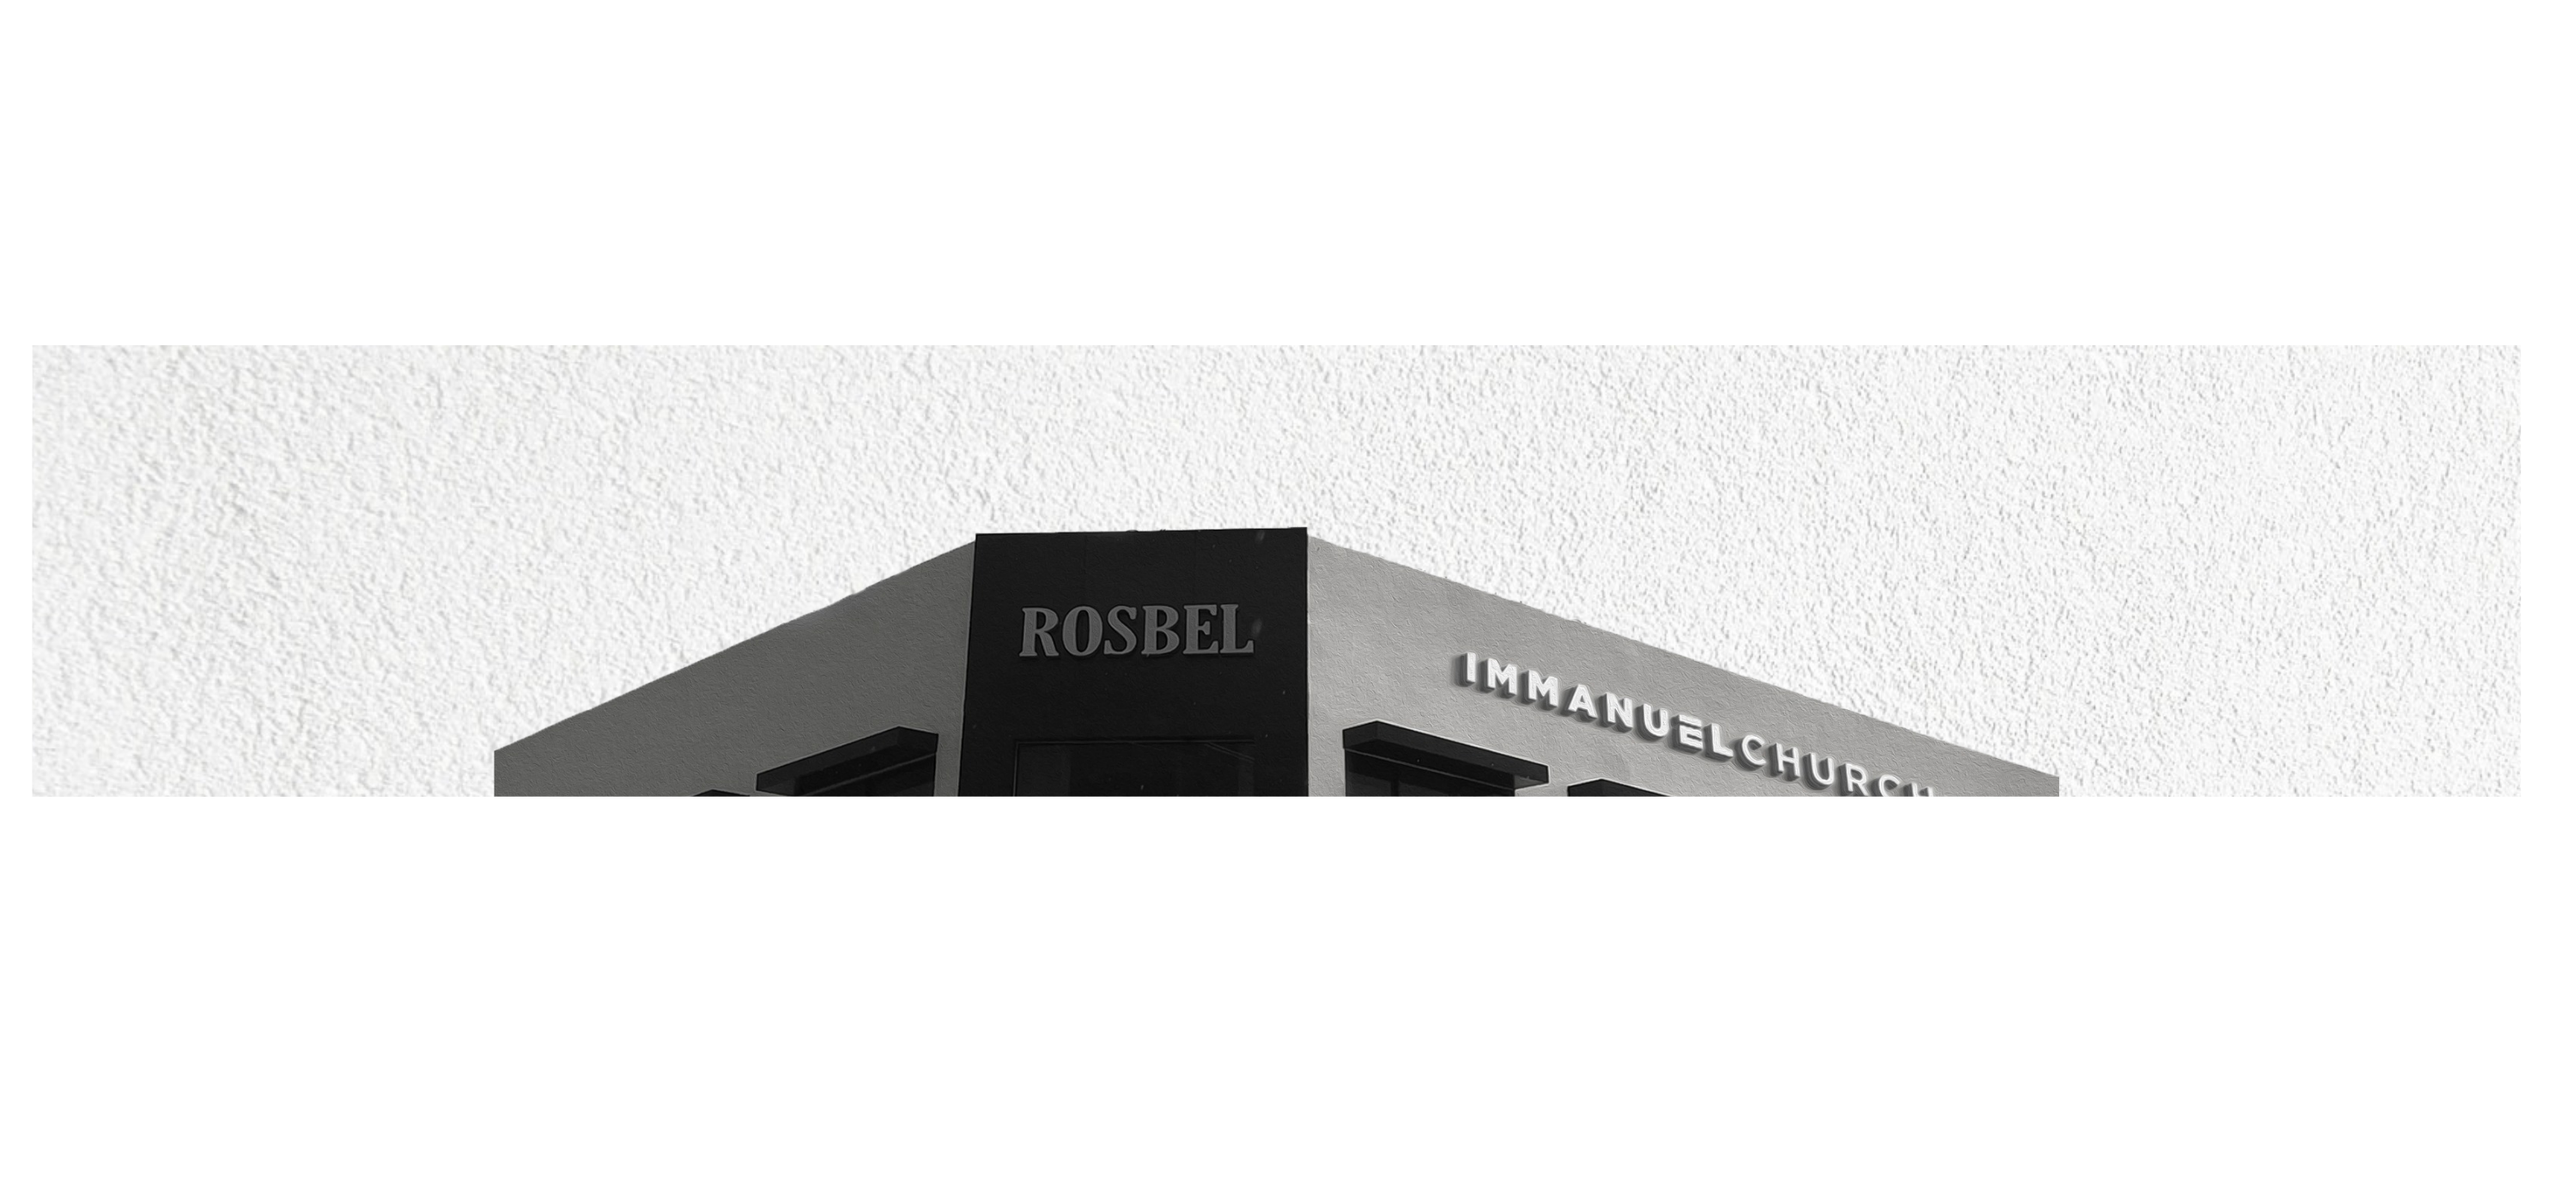
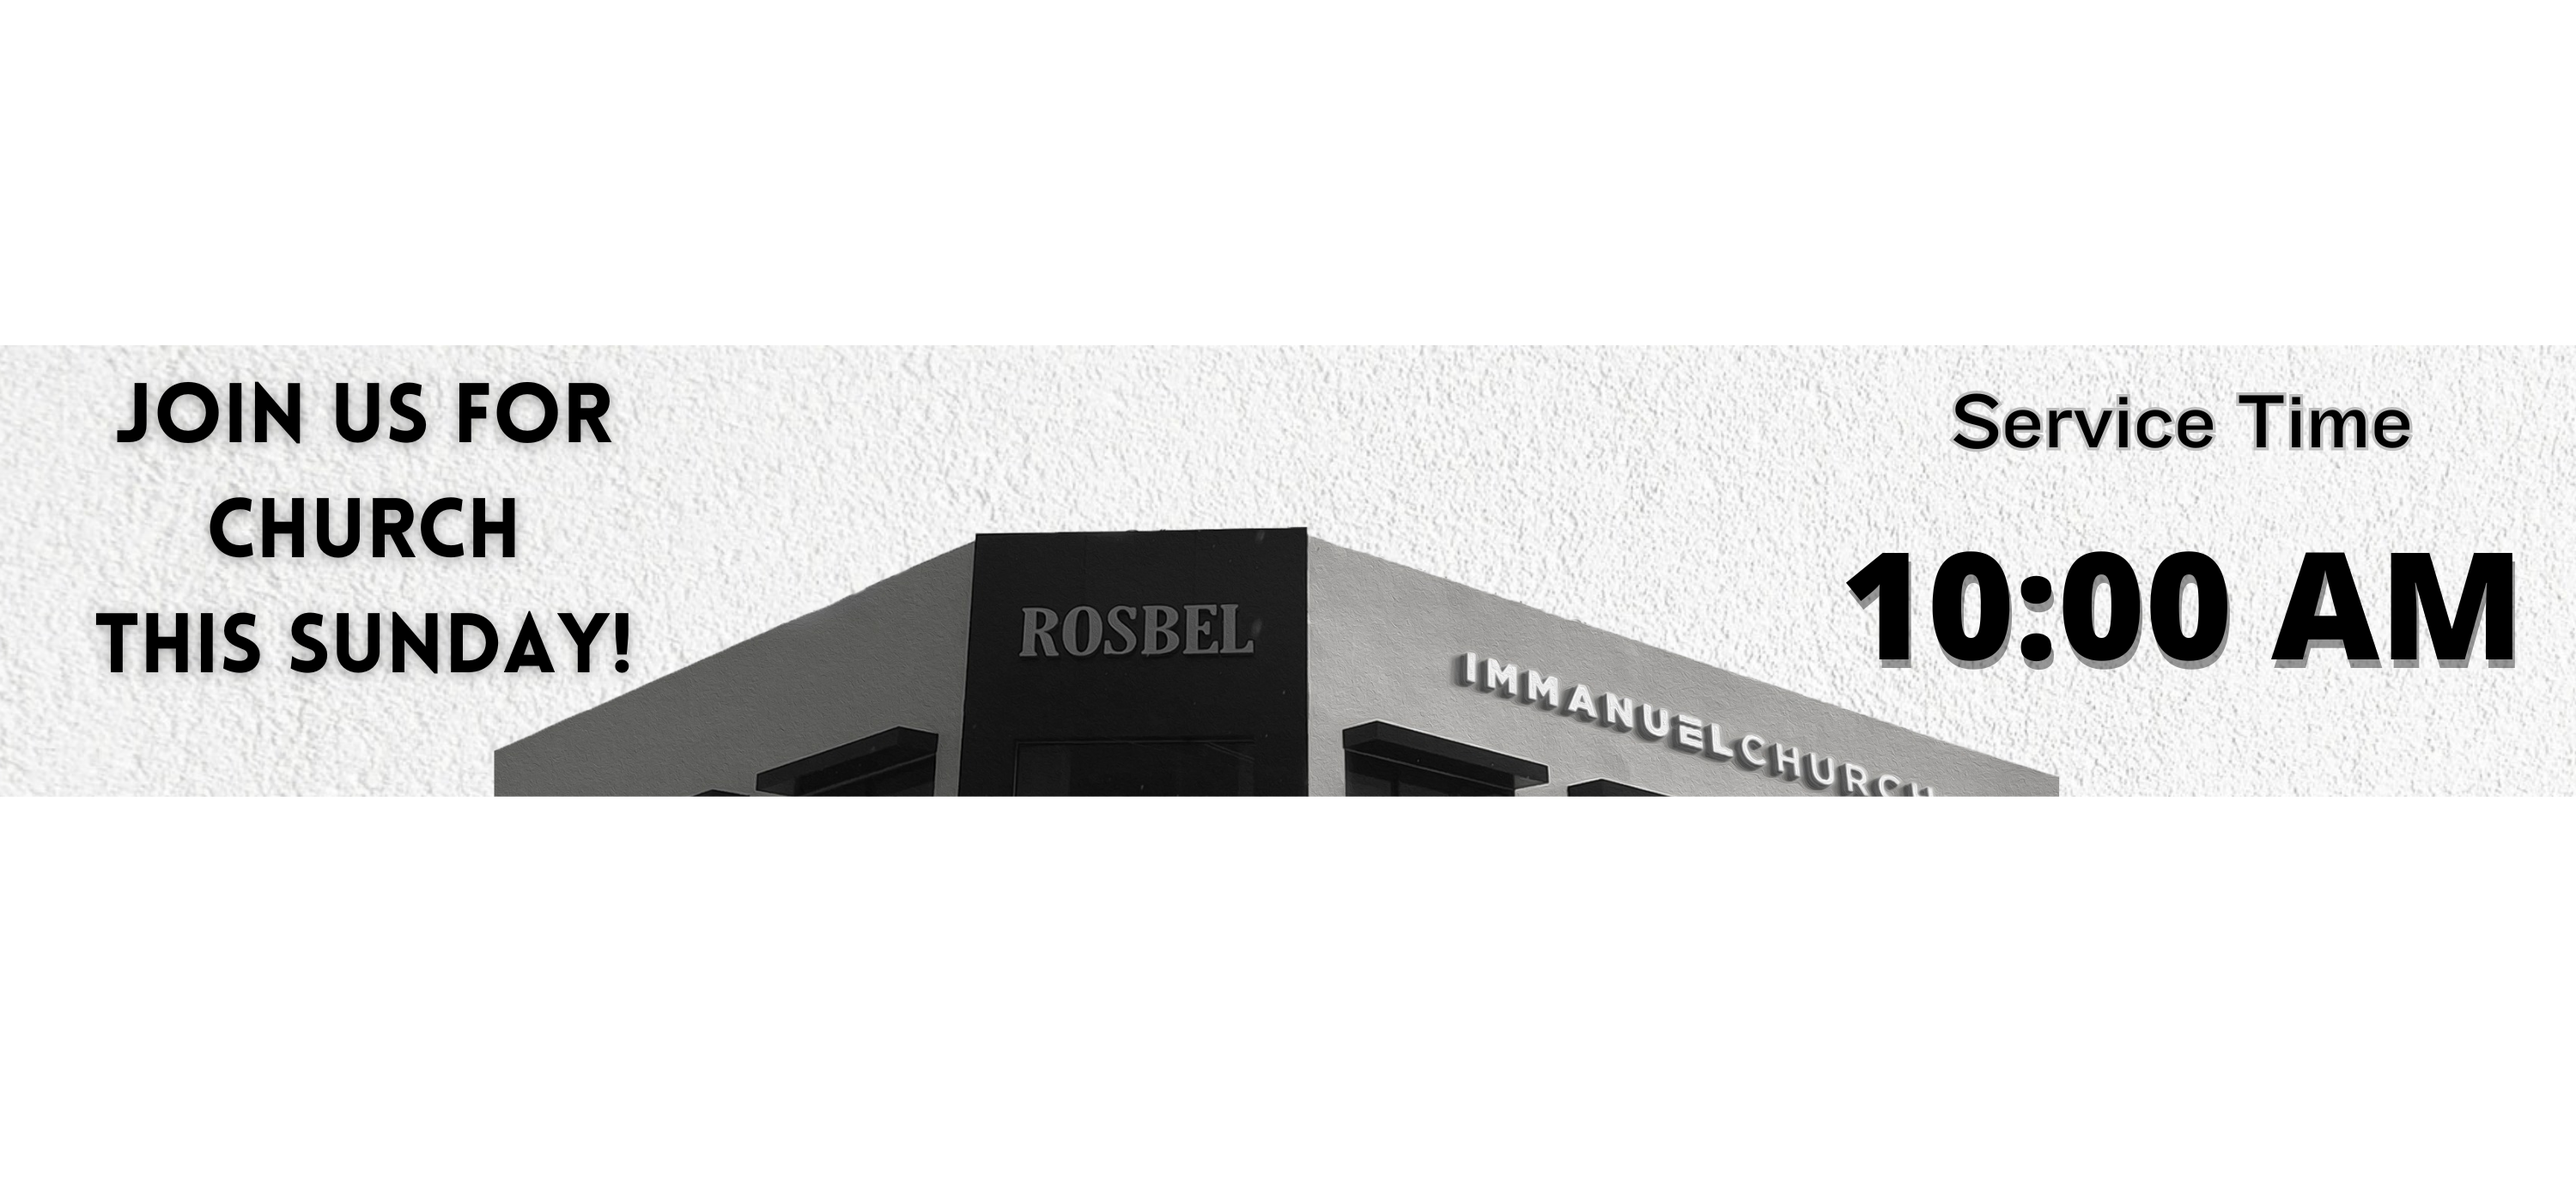
new revision

diff --git a/index.html b/index.html
@@ -36,19 +36,14 @@
                         <a href="#" class="p1_btn1">Watch Service</a>
                         <a href="#" class="p1_btn1">Events</a>
                         </div>
+                        <div> <img class="fg1" src="/assets/images/building.png" width="100%" height="100%"></div>
             </section>
 
-
-            <section>
-                    <div class="below1">
-                        <h1 class="join_church">Join us for church this Sunday!</h1>
-                        <h3 class="time_service">service times</h3>
-                        <h4 class="time">10:AM every Sunday</h4>
-                        <img class="fg1" src="/assets/images/building.png" width="100%" height="100%">
-                    </div>
+                    
+                 
                  
 
-            </section>
+            
 
      
 

diff --git a/CSS_files/styles.css b/CSS_files/styles.css
@@ -40,8 +40,8 @@ body{
  position: center;
 }
 
-.time_service{
-   padding-right: 70%;
+.fg1{
+    padding-top: 160px;
 }
 
 .Sermon{

diff --git a/CSS_files/Navbar_style.css b/CSS_files/Navbar_style.css
@@ -92,7 +92,7 @@ li, a{
 
 .fb-post{
   position: center;
-  margin-left: 25%;
+  margin-left: 10%;
 }
 
 
